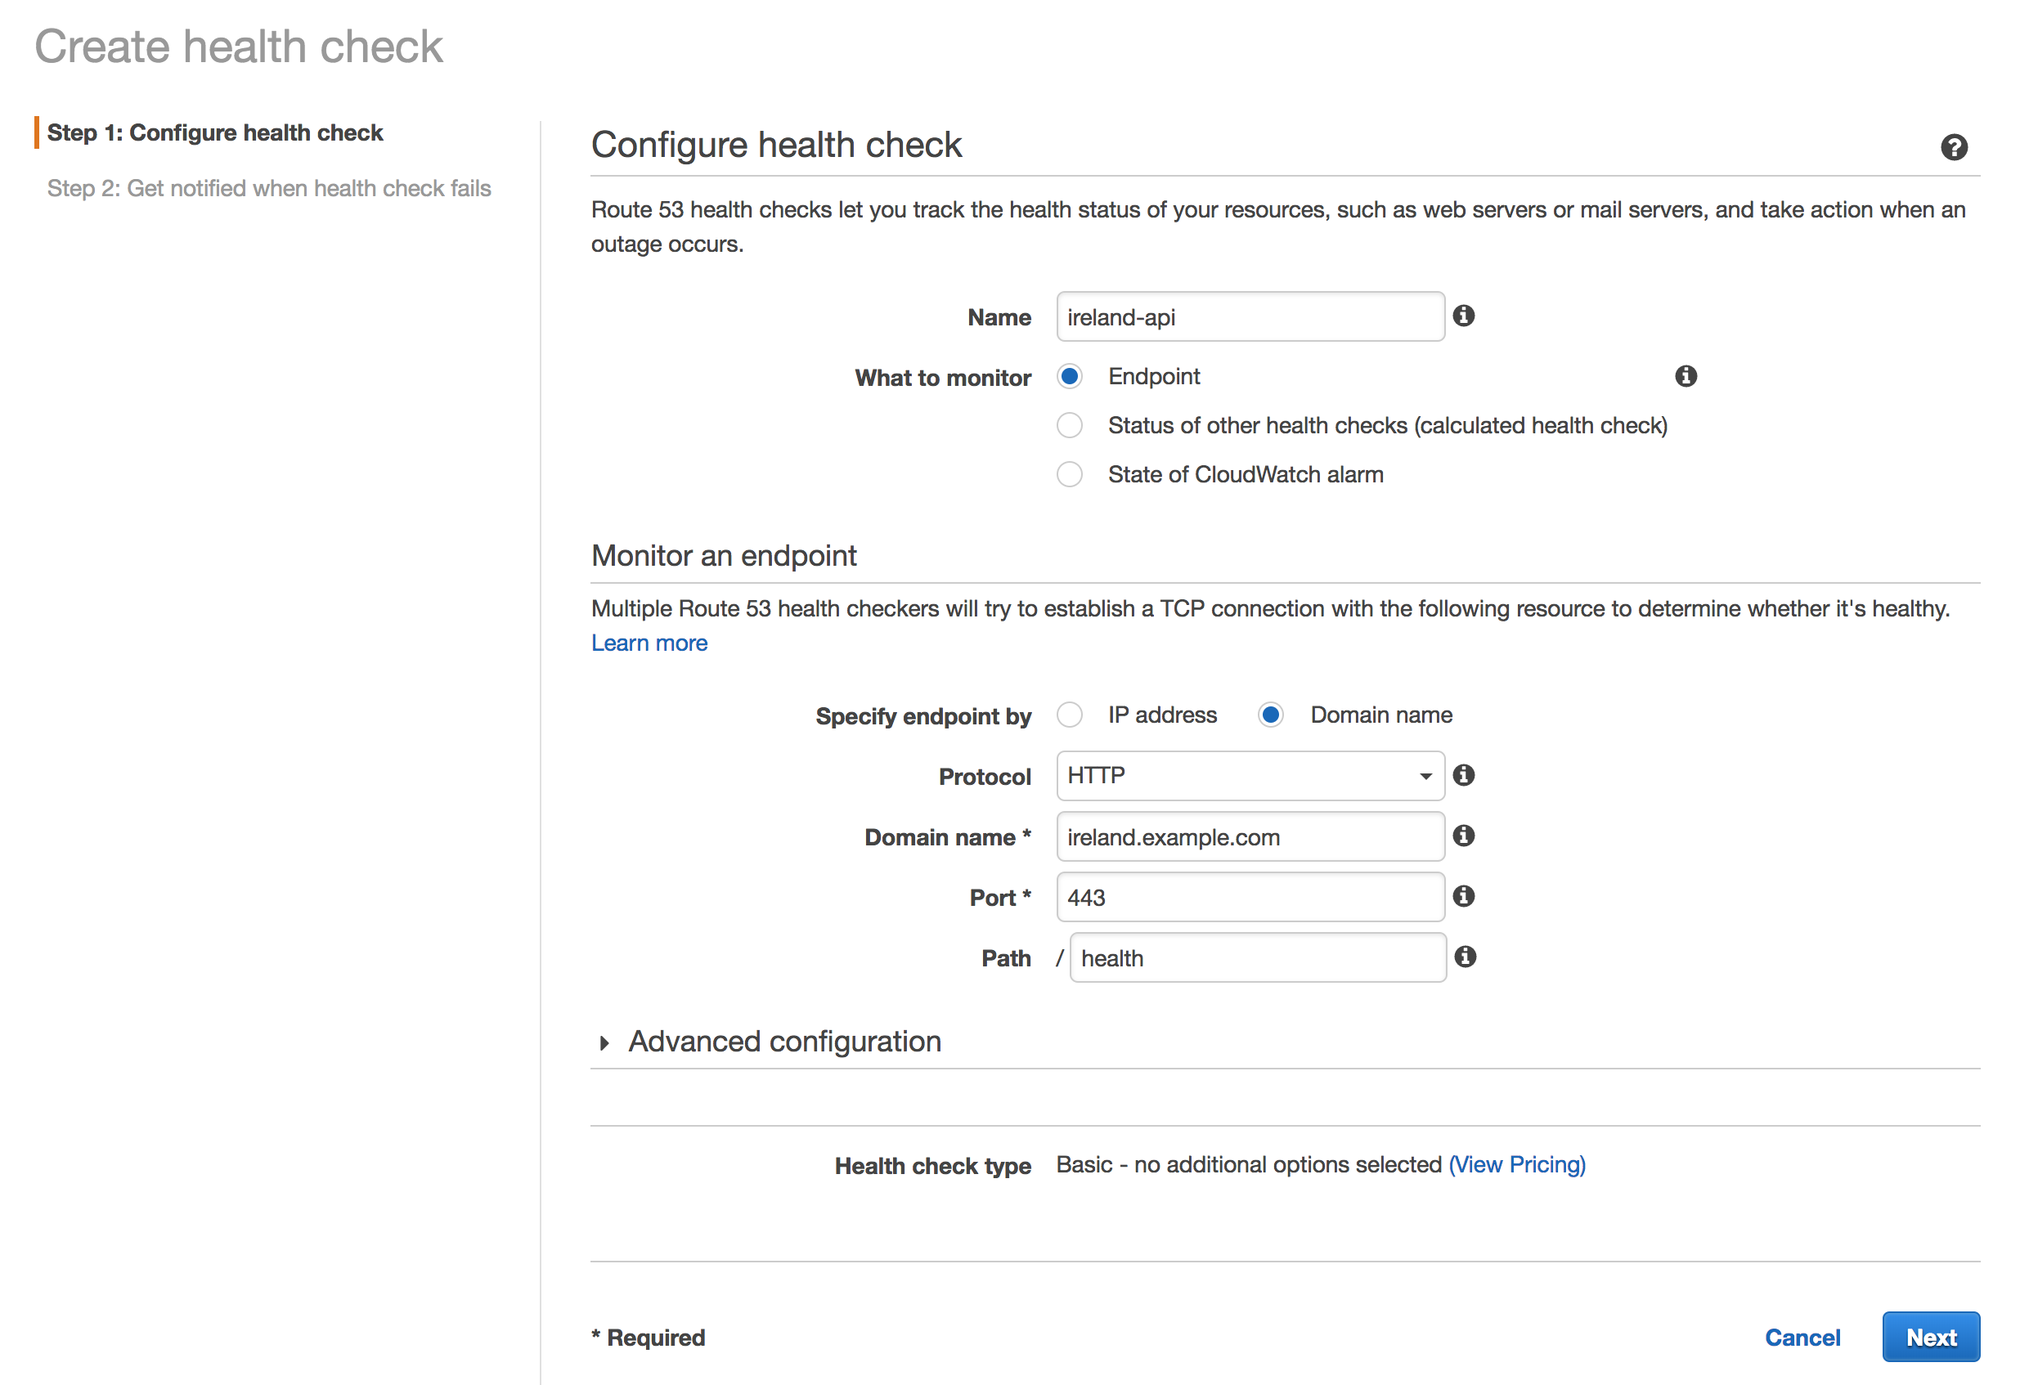
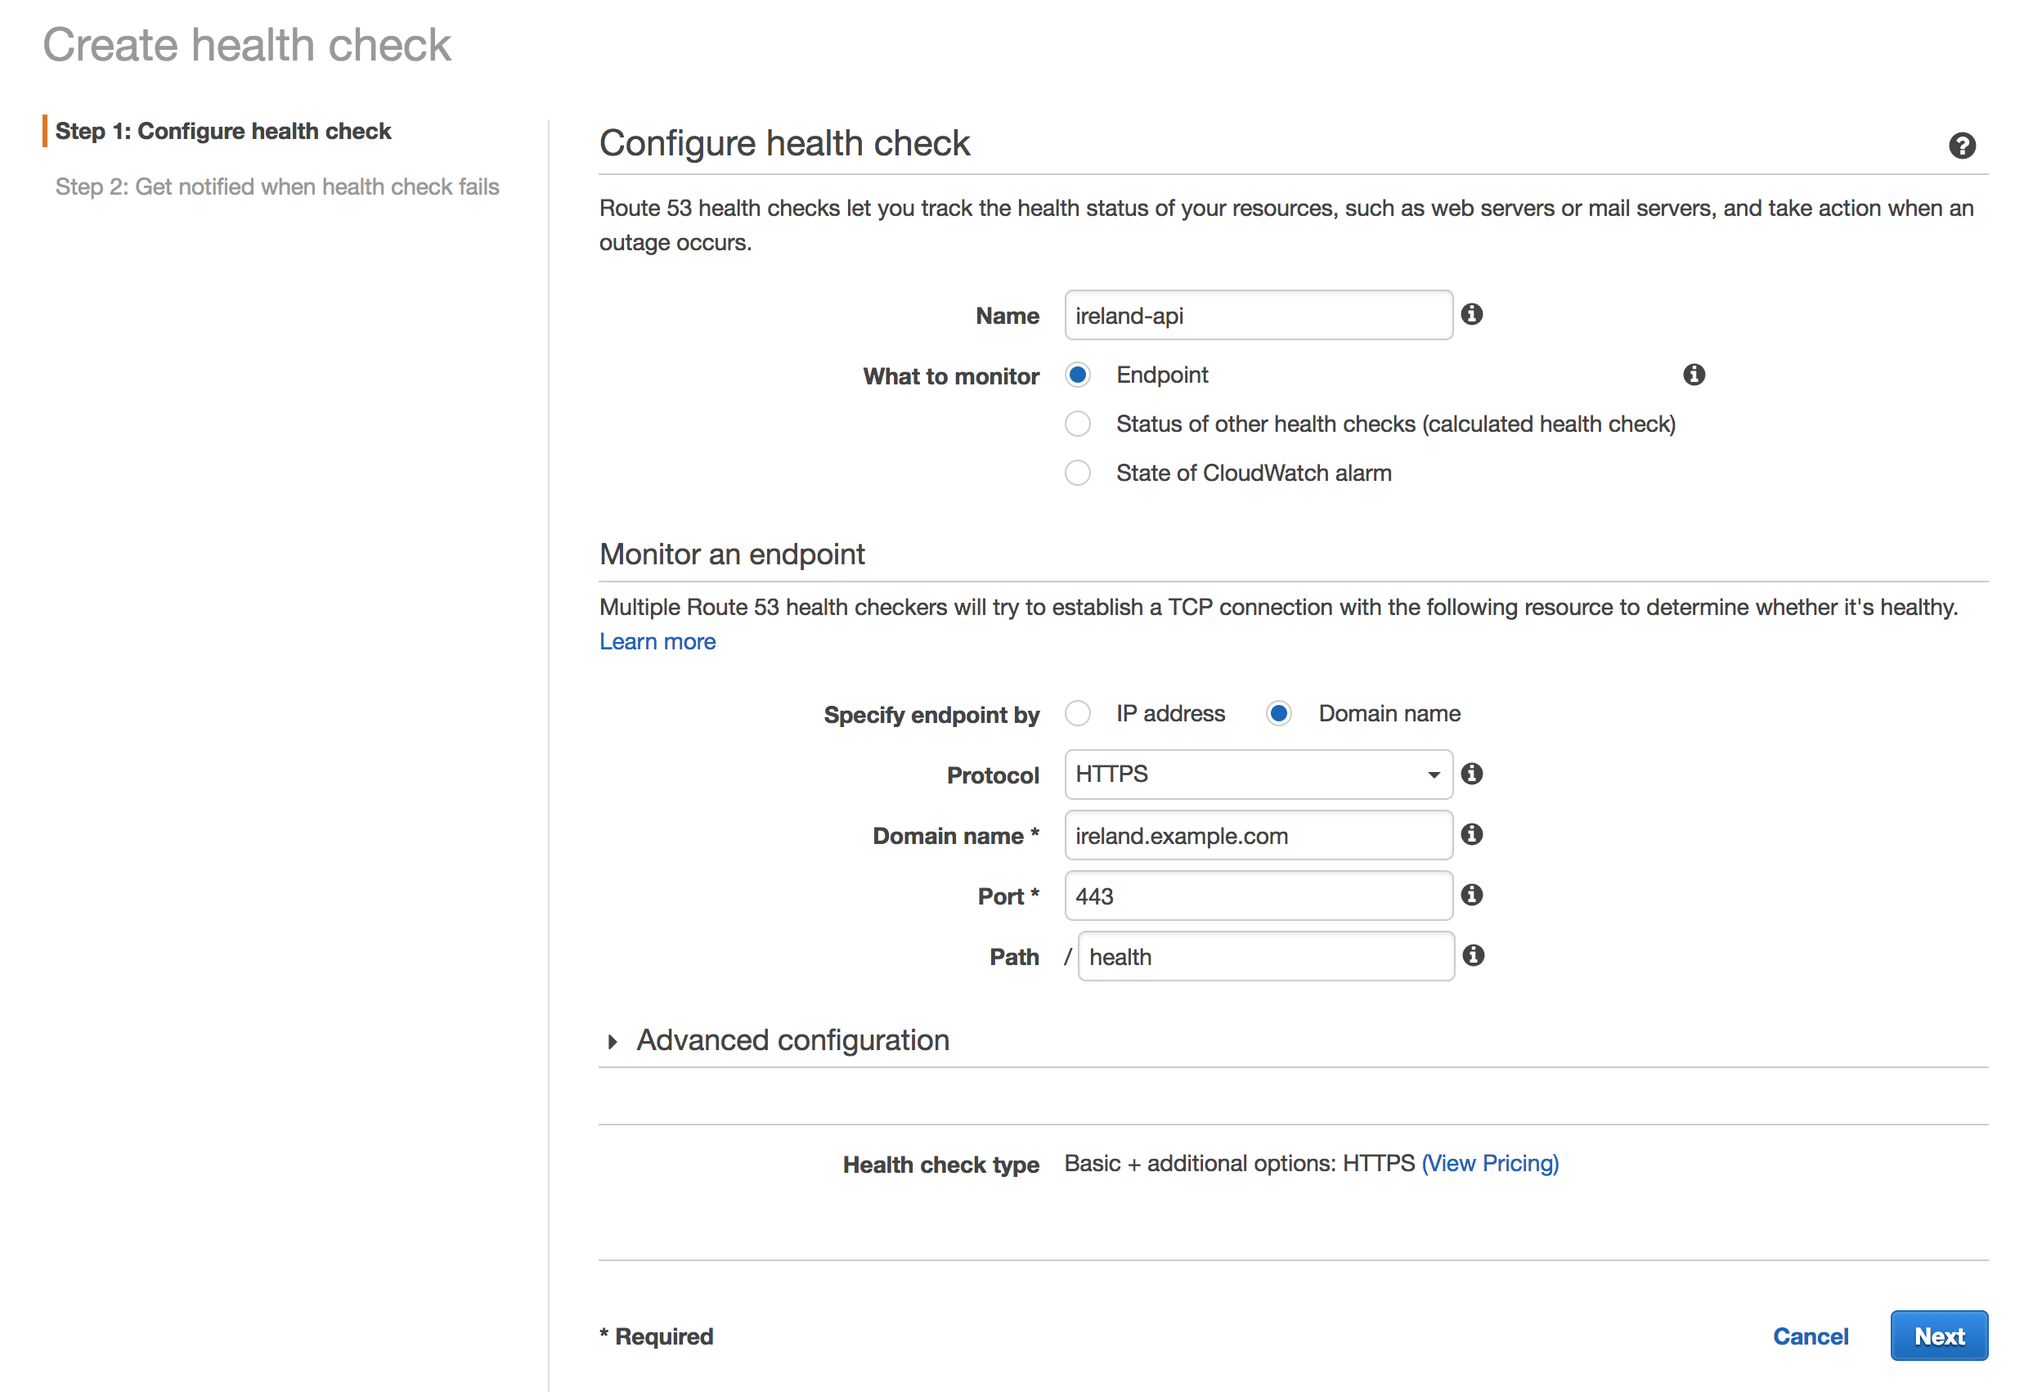
Wrap text and add healthcheck instructions

diff --git a/CrossRegion/3_Replication/README.md b/CrossRegion/3_Replication/README.md
@@ -1,74 +1,132 @@
 # Replicate to a second region
 
-Now that we have the app set up, lets replicate this in a second region so we have something to failover to.
+Now that we have the app set up, lets replicate this in a second region so we
+have something to failover to.
 
 ## 1. Replicate the primary stack
 
-For the first part of this module, all of the steps will be the same but performed in our secondary region (AP Singapore) instead. Please follow modules 1 and 2 again. You can use the CloudFormation templates from those modules to make this quicker.
+For the first part of this module, all of the steps will be the same but
+performed in our secondary region (AP Singapore) instead. Please follow
+modules 1 and 2 again. You can use the CloudFormation templates from those
+modules to make this quicker.
 
 Previous modules:
 1. [Build an API layer](../1_API/README.md)
 2. [Build a UI layer](../2_UI/README.md)
 
-Once you are done, verify that you get a second URL (the S3 bucket URL) for your application and that there are no tickets displayed in this second copy of your application yet. If you see the tickets you created in the first region then something has gone wrong and you are not using a completely separate stack which means there is a dependency on the primary region. You will need to resolve this before moving on.
+Once you are done, verify that you get a second URL (the S3 bucket URL) for
+your application and that there are no tickets displayed in this second copy
+of your application yet. If you see the tickets you created in the first
+region then something has gone wrong and you are not using a completely
+separate stack which means there is a dependency on the primary region. You
+will need to resolve this before moving on.
 
 ## 2. Replicating the data
 
-So now that you have a separate stack, let's take a look at continuously replicating the data in DynamoDB from the primary region (Ireland) to the secondary region (Singapore) so that there is always a backup.
+So now that you have a separate stack, let's take a look at continuously
+replicating the data in DynamoDB from the primary region (Ireland) to the
+secondary region (Singapore) so that there is always a backup.
 
-We will be using a feature of DynamoDB called Streams for this. DynamoDB Streams provides a time ordered sequence of item level changes in any DynamoDB table. This allows us to monitor these changes and push then to our second DynamoDB table. We will be using AWS Lambda to do this since we can easily connect this to our stream and we don't have to setup any additional infrastructure.
+We will be using a feature of DynamoDB called Streams for this. DynamoDB
+Streams provides a time ordered sequence of item level changes in any DynamoDB
+table. This allows us to monitor these changes and push then to our second
+DynamoDB table. We will be using AWS Lambda to do this since we can easily
+connect this to our stream and we don't have to setup any additional
+infrastructure.
 
 
 ## 3. Configure Route53 failover
 
-We need a way to be able to failover quickly with minimal impact to the customer. Route53 provides an easy way to do this using DNS and healthchecks. Be aware that some steps in this module will take time to go into effect because of the nature of DNS. Be patient when making changes.
+We need a way to be able to failover quickly with minimal impact to the
+customer. Route53 provides an easy way to do this using DNS and healthchecks.
+Be aware that some steps in this module will take time to go into effect
+because of the nature of DNS. Be patient when making changes.
 
-NOTE: You will need the latest AWS CLI for this. Ensure you have updated recently. See http://docs.aws.amazon.com/cli/latest/userguide/installing.html
+NOTE: You will need the latest AWS CLI for this. Ensure you have updated
+recently. See http://docs.aws.amazon.com/cli/latest/userguide/installing.html
 
 
 ### 3.1 Purchase (or repurpose) your own domain
 
-In this step, you will provision your own domain name to use for this application. If you already have a domain name registered with Route53 and would like to use this you can use skip to the next step.
+In this step, you will provision your own domain name to use for this
+application. If you already have a domain name registered with Route53 and
+would like to use this you can use skip to the next step.
 
-If using an existing domain name, ensure there is no CloudFront distribution already setup for the domain. You will also need to ensure that your email contacts are configured and up-to-date on the since you will need to receive mail in the next step.
+If using an existing domain name, ensure there is no CloudFront distribution
+already setup for the domain. You will also need to ensure that your email
+contacts are configured and up-to-date on the since you will need to receive
+mail in the next step.
 
-For the remainder of this workshop we will use `example.com` as to demonstrate. Please substitute your own domain into any commands
+For the remainder of this workshop we will use `example.com` as to
+demonstrate. Please substitute your own domain into any commands
 
 #### High-level instructions
-Navigate over to the Route53 Console and under **Registered domains** select **Register domain** and follow the instructions. You will first have to find an available domain before specifying your contact details and confirming the purchase.
+
+Navigate over to the Route53 Console and under **Registered domains** select
+**Register domain** and follow the instructions. You will first have to find
+an available domain before specifying your contact details and confirming the
+purchase.
 
 <details>
-<summary><strong>Console step-by-step instructions (expand for details)</strong></summary>
+<summary>
+    <strong>Console step-by-step instructions (expand for details)</strong>
+</summary>
 
 1. Navigate to the **Route53** service page
 2. Navigate to **Registered domains**
 3. Select **Register domain**
-4. Enter the domain name you would like to use. You will have to choose something not already registered. Click **Check** and confirm that your domain is available before clicking **Add to cart**. Now choose **Continue**.
-5. Enter your contact information. Ensure that you enter an email address where you can receive mail. By default, Route53 will enable privacy protection and configure an anonymized email address that forwards any mail onto the email address you specify. Leave this option selected and select **Continue**
-6. Confirm that all your details are correct. Check the box agreeing to the terms and conditions. You will see that Route53 is verifying the email address you specified. Make sure you receive this email and complete the verification before proceeding.
+4. Enter the domain name you would like to use. You will have to choose
+   something not already registered. Click **Check** and confirm that your
+   domain is available before clicking **Add to cart**. Now choose
+   **Continue**.
+5. Enter your contact information. Ensure that you enter an email address
+   where you can receive mail. By default, Route53 will enable privacy
+   protection and configure an anonymized email address that forwards any mail
+   onto the email address you specify. Leave this option selected and select
+   **Continue**
+6. Confirm that all your details are correct. Check the box agreeing to the
+   terms and conditions. You will see that Route53 is verifying the email
+   address you specified. Make sure you receive this email and complete the
+   verification before proceeding.
 7. Click **Complete Purchase**
 
 </details>
 
 ### 3.2 Configure a certificate in Certificate Manager in each region
 
-We will need an SSL certificate in order to configure our domain name with API Gateway. AWS makes this simple with AWS Certificate Manager.
+We will need an SSL certificate in order to configure our domain name with API
+Gateway. AWS makes this simple with AWS Certificate Manager.
 
 #### High-level instructions
-Navigate over to the *Certificate Manager* service and request a new certificate for your domain. You will specify the domain name you just created (or repurposed). Make sure to request a wildcard certificate which includes both `example.com` and `*.example.com`. You will have to approve the request via email and see it as `Issued` in the console before proceeding.
+
+Navigate over to the *Certificate Manager* service and request a new
+certificate for your domain. You will specify the domain name you just created
+(or repurposed). Make sure to request a wildcard certificate which includes
+both `example.com` and `*.example.com`. You will have to approve the request
+via email and see it as `Issued` in the console before proceeding.
 
 Make sure to follow this same process for your second region.
 
 <details>
-<summary><strong>Console step-by-step instructions (expand for details)</strong></summary>
+<summary>
+    <strong>Console step-by-step instructions (expand for details)</strong>
+</summary>
 
 1. Ensure you are in your primary region
 2. Navigate to the **Certificate Manager** service page
 3. Select **Request a certificate**
-4. In this next step you will configure the domain name you just registered (or repurposed). You will want to add two domains to make sure you can access your site using subdomains. Add both `example.com` and `*.example.com`. The `*` acts as a wildcard allowing any subdomain to be covered by this certificate.
-5. Select **Review and request**. Confirm both domains are configured and select **Confirm and request**
-6. A validation email will be sent to the email address configured for the domain. Ensure that you received this email and click the validation link before moving on. Now click **Continue**.
-7. Once you have confirmed your certificate, it will appear as `Issued` in your list of certificates.
+4. In this next step you will configure the domain name you just registered
+   (or repurposed). You will want to add two domains to make sure you can
+   access your site using subdomains. Add both `example.com` and
+   `*.example.com`. The `*` acts as a wildcard allowing any subdomain to be
+   covered by this certificate.
+5. Select **Review and request**. Confirm both domains are configured and
+   select **Confirm and request**
+6. A validation email will be sent to the email address configured for the
+   domain. Ensure that you received this email and click the validation link
+   before moving on. Now click **Continue**.
+7. Once you have confirmed your certificate, it will appear as `Issued` in
+   your list of certificates.
 8. Repeat steps 2-7 again in your second region
 
 </details>
@@ -76,47 +134,103 @@ Make sure to follow this same process for your second region.
 
 ### 3.3 Configure custom domains on each API, in each region
 
-Now that you have a domain name and a valid certificate for it, you can go ahead and setup your APIs for each region to use your custom domain. API Gateway Custom domains allow you to access your API using your own domain name. While you can configure DNS records to point directly to the regular API Gateway endpoint, an error will be returned unless you have this custom domain configuration.
+Now that you have a domain name and a valid certificate for it, you can go
+ahead and setup your APIs for each region to use your custom domain. API
+Gateway Custom domains allow you to access your API using your own domain
+name. While you can configure DNS records to point directly to the regular API
+Gateway endpoint, an error will be returned unless you have this custom domain
+configuration.
 
-You will want two domain configurations in each Region. We will be using the `api.` subdomain prefix for our application and `ireland.` and `singapore.` so we can visit each region independently for convenience.
+You will want two domain configurations in each Region. We will be using the
+`api.` subdomain prefix for our application and `ireland.` and `singapore.` so
+we can visit each region independently for convenience.
 
 * `eu-west-1` Ireland:
-    * api.example.com
-    * ireland.example.com
+    * `api.example.com`
+    * `ireland.example.com`
 * `ap-southeast-1` Singapore:
-    * api.example.com
-    * singapore.example.com
+    * `api.example.com`
+    * `singapore.example.com`
 
 #### High-level instructions
-Navigate over to the **API Gateway** service, choose **Custom Domain Names** then go ahead and configure a custom domain name for `api.example.com`. Make sure to choose the **Regional** endpoint configuration. For the Base Path Mappings you will want to choose `/` as the path, your API as the destination and `Prod` as the stage then hit **Save**. If you get an error about rate limits, wait a minute before attempting to create again.
+
+Navigate over to the **API Gateway** service, choose **Custom Domain Names**
+then go ahead and configure a custom domain name for `api.example.com`. Make
+sure to choose the **Regional** endpoint configuration. For the Base Path
+Mappings you will want to choose `/` as the path, your API as the destination
+and `Prod` as the stage then hit **Save**. If you get an error about rate
+limits, wait a minute before attempting to create again.
 
 ![Custom API Gateway domain](images/custom-domain.png)
 
 Now repeat for the three other subdomains in the respective regions.
 
-Your newly-created Custom Domains will each show a Target Domain Name. You will use this to configure your health checks and DNS records next.
+Your newly-created Custom Domains will each show a Target Domain Name. You
+will use this to configure your health checks and DNS records next. The final
+configuration for the Ireland region should look similar to the below image.
 
 ![API Gateway Target Domain](images/custom-domains-configured-ireland.png)
 
-### 3.4 Configure a health check for the primary region
+### 3.4 Configure DNS records
 
-In this step you will configure a Route53 health check on the primary regional endpoint. This health check will be responsible for triggering a failover to the second region if a problem is detected in the primary region. Note that if you were configuring an active-active model with something like Weighted Routing then you would configure a health check on all endpoints, but only one is necessary in this case since only our primary region will be handling traffic under normal conditions.
+Now let's start pointing your domain name at the API endpoints. In this step
+you will configure CNAME records for your `ireland.` and `singapore.`
+subdomains. We will not configure `api.` just yet.
 
 #### High-level instructions
 
-Navigate over to the **Route53** service and choose **Health checks**.
+Make sure you are in your primary (Ireland) region. Head over to the
+**Route53** service and select **Hosted zones**. Choose your domain name from
+the list and you should see a couple of records already configured for
+nameservers.
+
+Select **Create Record Set** and create a new CNAME record for `ireland.`
+pointing to the Target Domain Name for your corresponding API Gateway Custom
+Domain from the previous step. You can set the TTL to 1m (60 seconds) for the
+purpose of this workshop.
+
+![Create regional subdomain record](images/ireland-subdomain-record.png)
+
+Now repeat in your second region and create a CNAME for the `singapore.`
+subdomain with Target Domain Name for Singapore.
+
+### 3.4 Configure a health check for the primary region
+
+In this step you will configure a Route53 health check on the primary
+(Ireland) regional endpoint. This health check will be responsible for
+triggering a failover to the second region if a problem is detected in the
+primary region. Note that if you were configuring an active-active model with
+something like Weighted Routing then you would configure a health check on all
+endpoints, but only one is necessary in this case since only our primary
+region will be handling traffic under normal conditions.
+
+At this point you should now be able to visit your subdomain and see your API
+working. Navigate to an endpoint on your API using your custom domain in your
+web browser and ensure that you see a JSON response (e.g.
+`https://ireland.example.com/ticket`). Notice how we're explicitly using
+HTTPS. You will get a gateway error if you try to use HTTP.
+
+#### High-level instructions
+
+Navigate over to the **Route53** service and choose **Health checks**. Create
+a new health check, give it an easily identifyable name e.g. `ireland-api`.
+Choose to monitor and endpoint and specify the endpoint by domain name.
+
+Since our API is protected by a TLS certificate you will need to change the
+port to 443 and the protocol to HTTPS.
+
+You will also want to specify `/health` as the path as this is where our deep
+ping health check Lambda function is served from.
 
 ![Route53 Health check configuration](images/create-health-check.png)
 
-    - NOTE: use port 443. 80 Won't work.
-    - Must use HTTPS, not HTTP
-
-Once configured, wait a few minutes and you should see your health check go green and say Healthy in the console.
+Once configured, wait a few minutes and you should see your health check go
+green and say Healthy in the console.
 
 ![Route53 Health check configuration](images/created-health-check.png)
 
 
-### 3.5 Configure Zone in R53
+### 3.5 Configure DNS failover records
 
 Now let's configure the zone records in a failover pattern.
 
